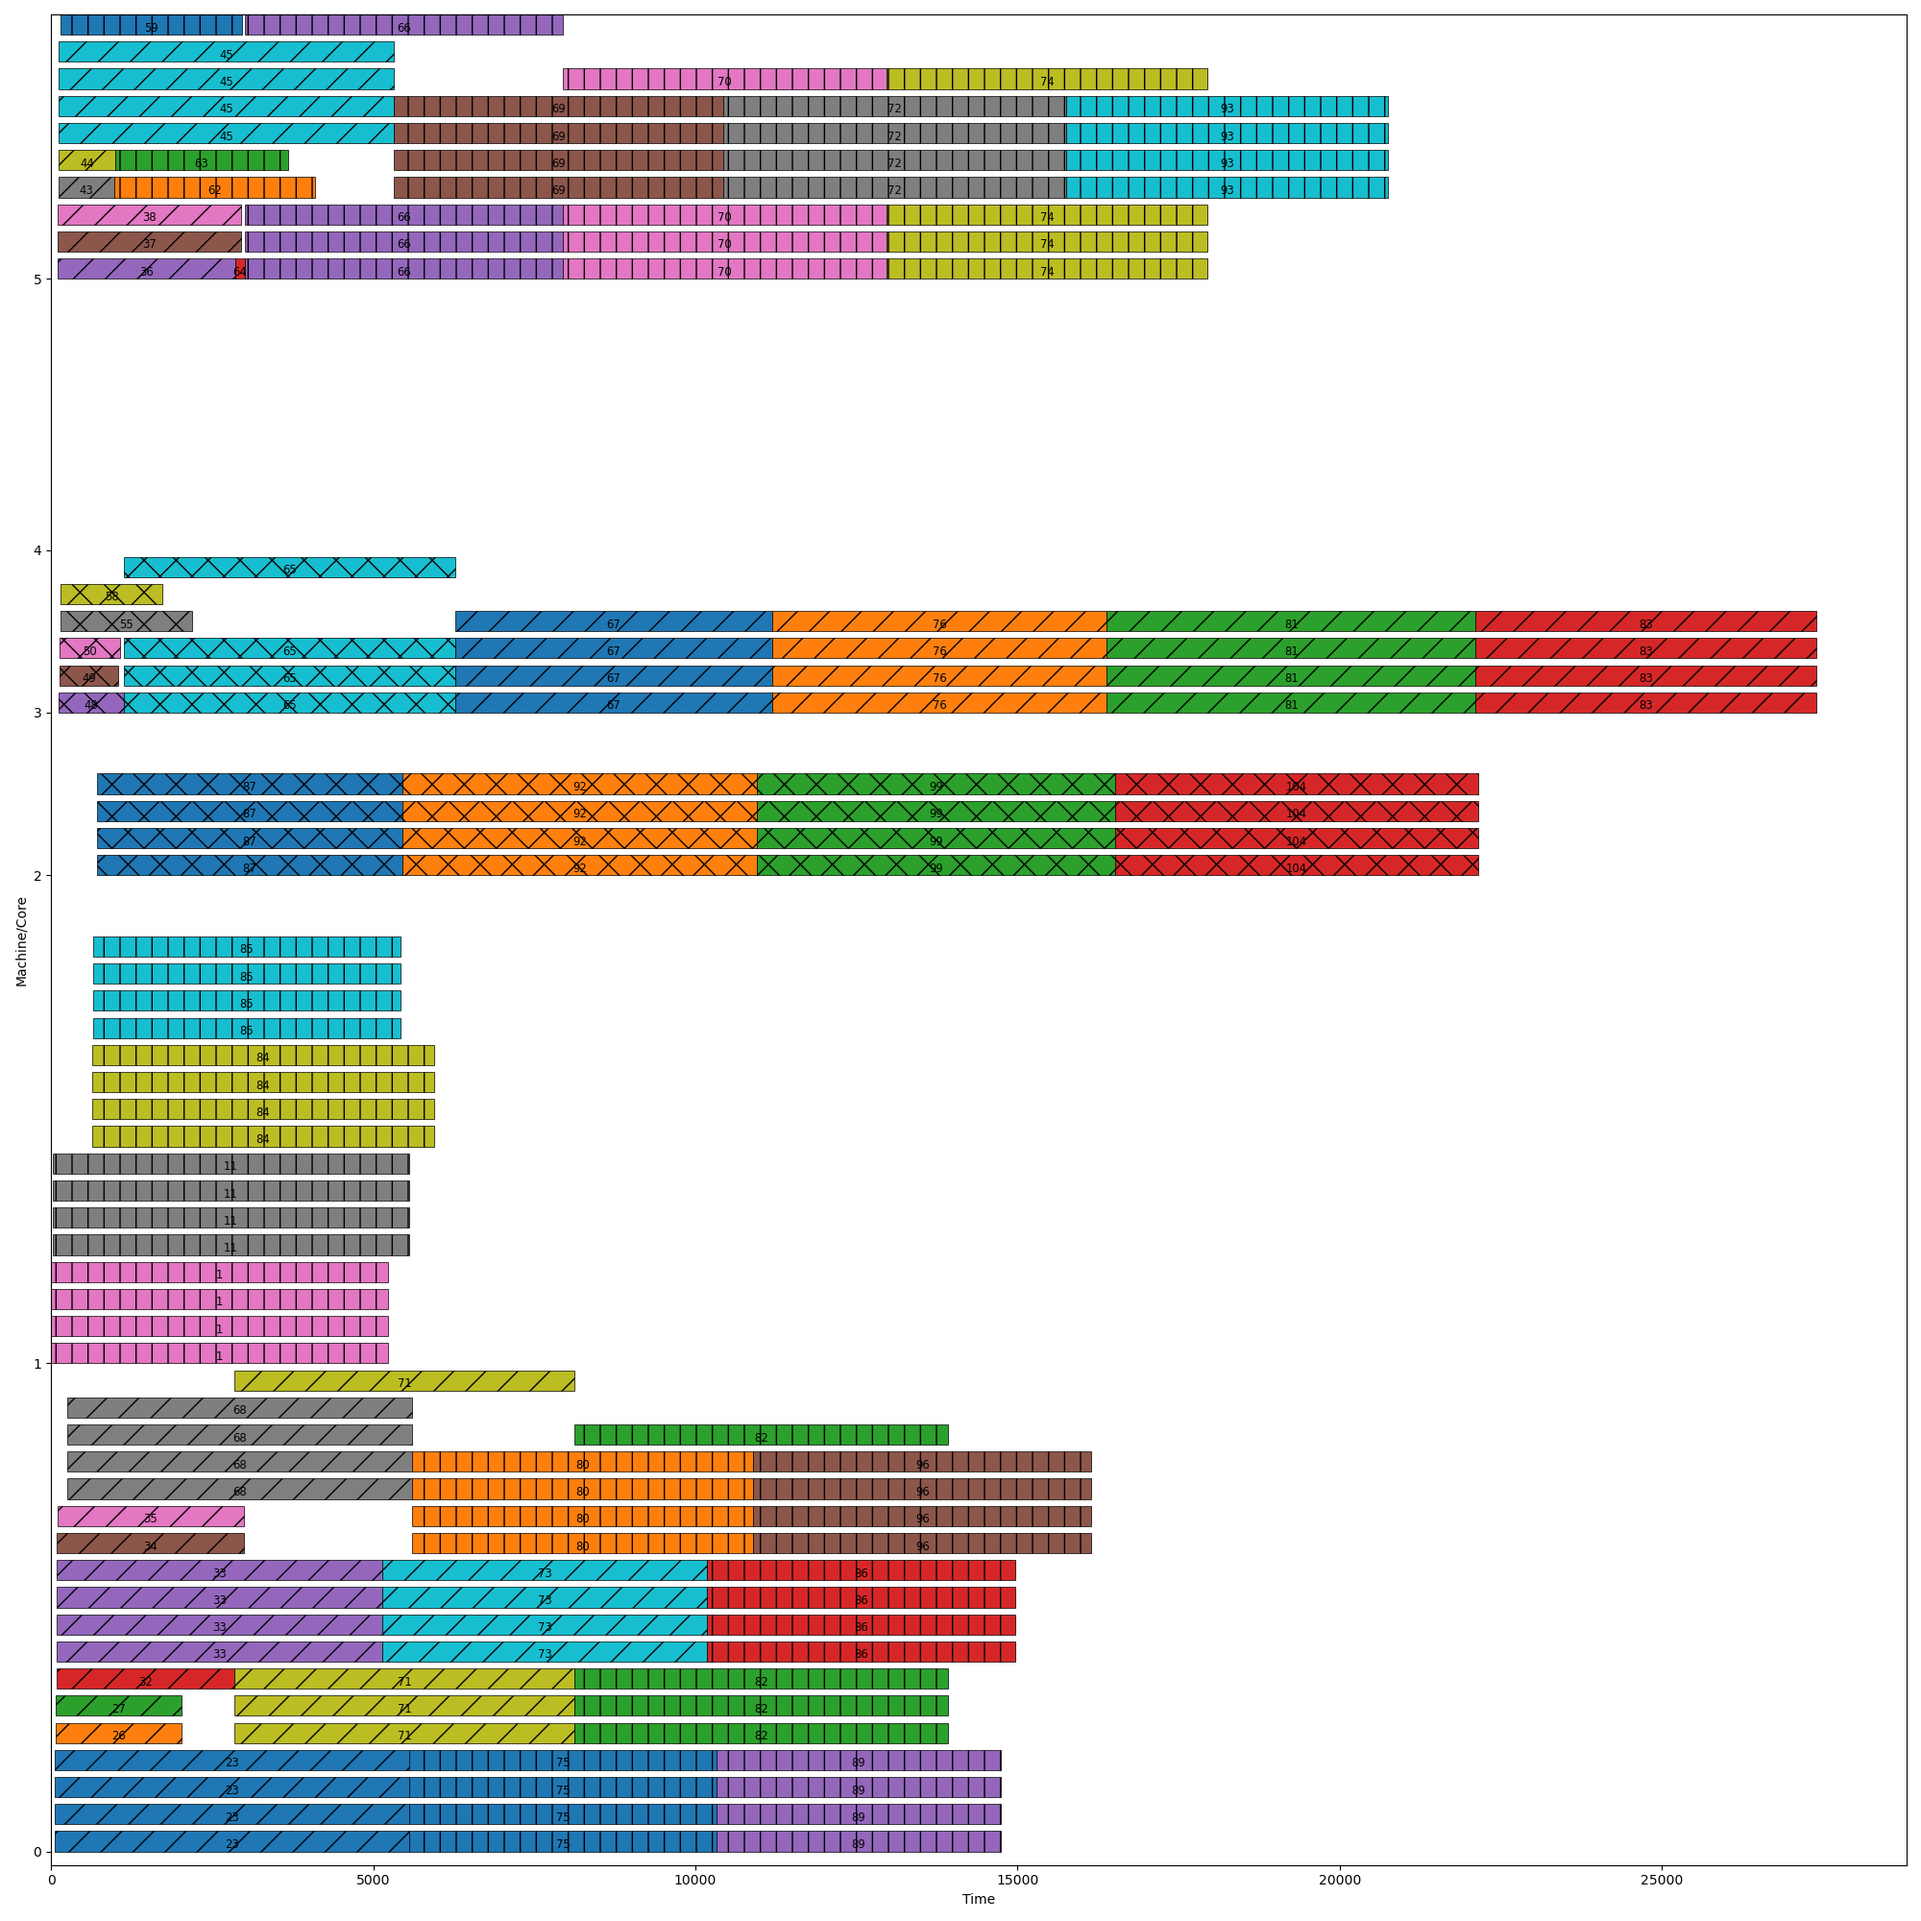
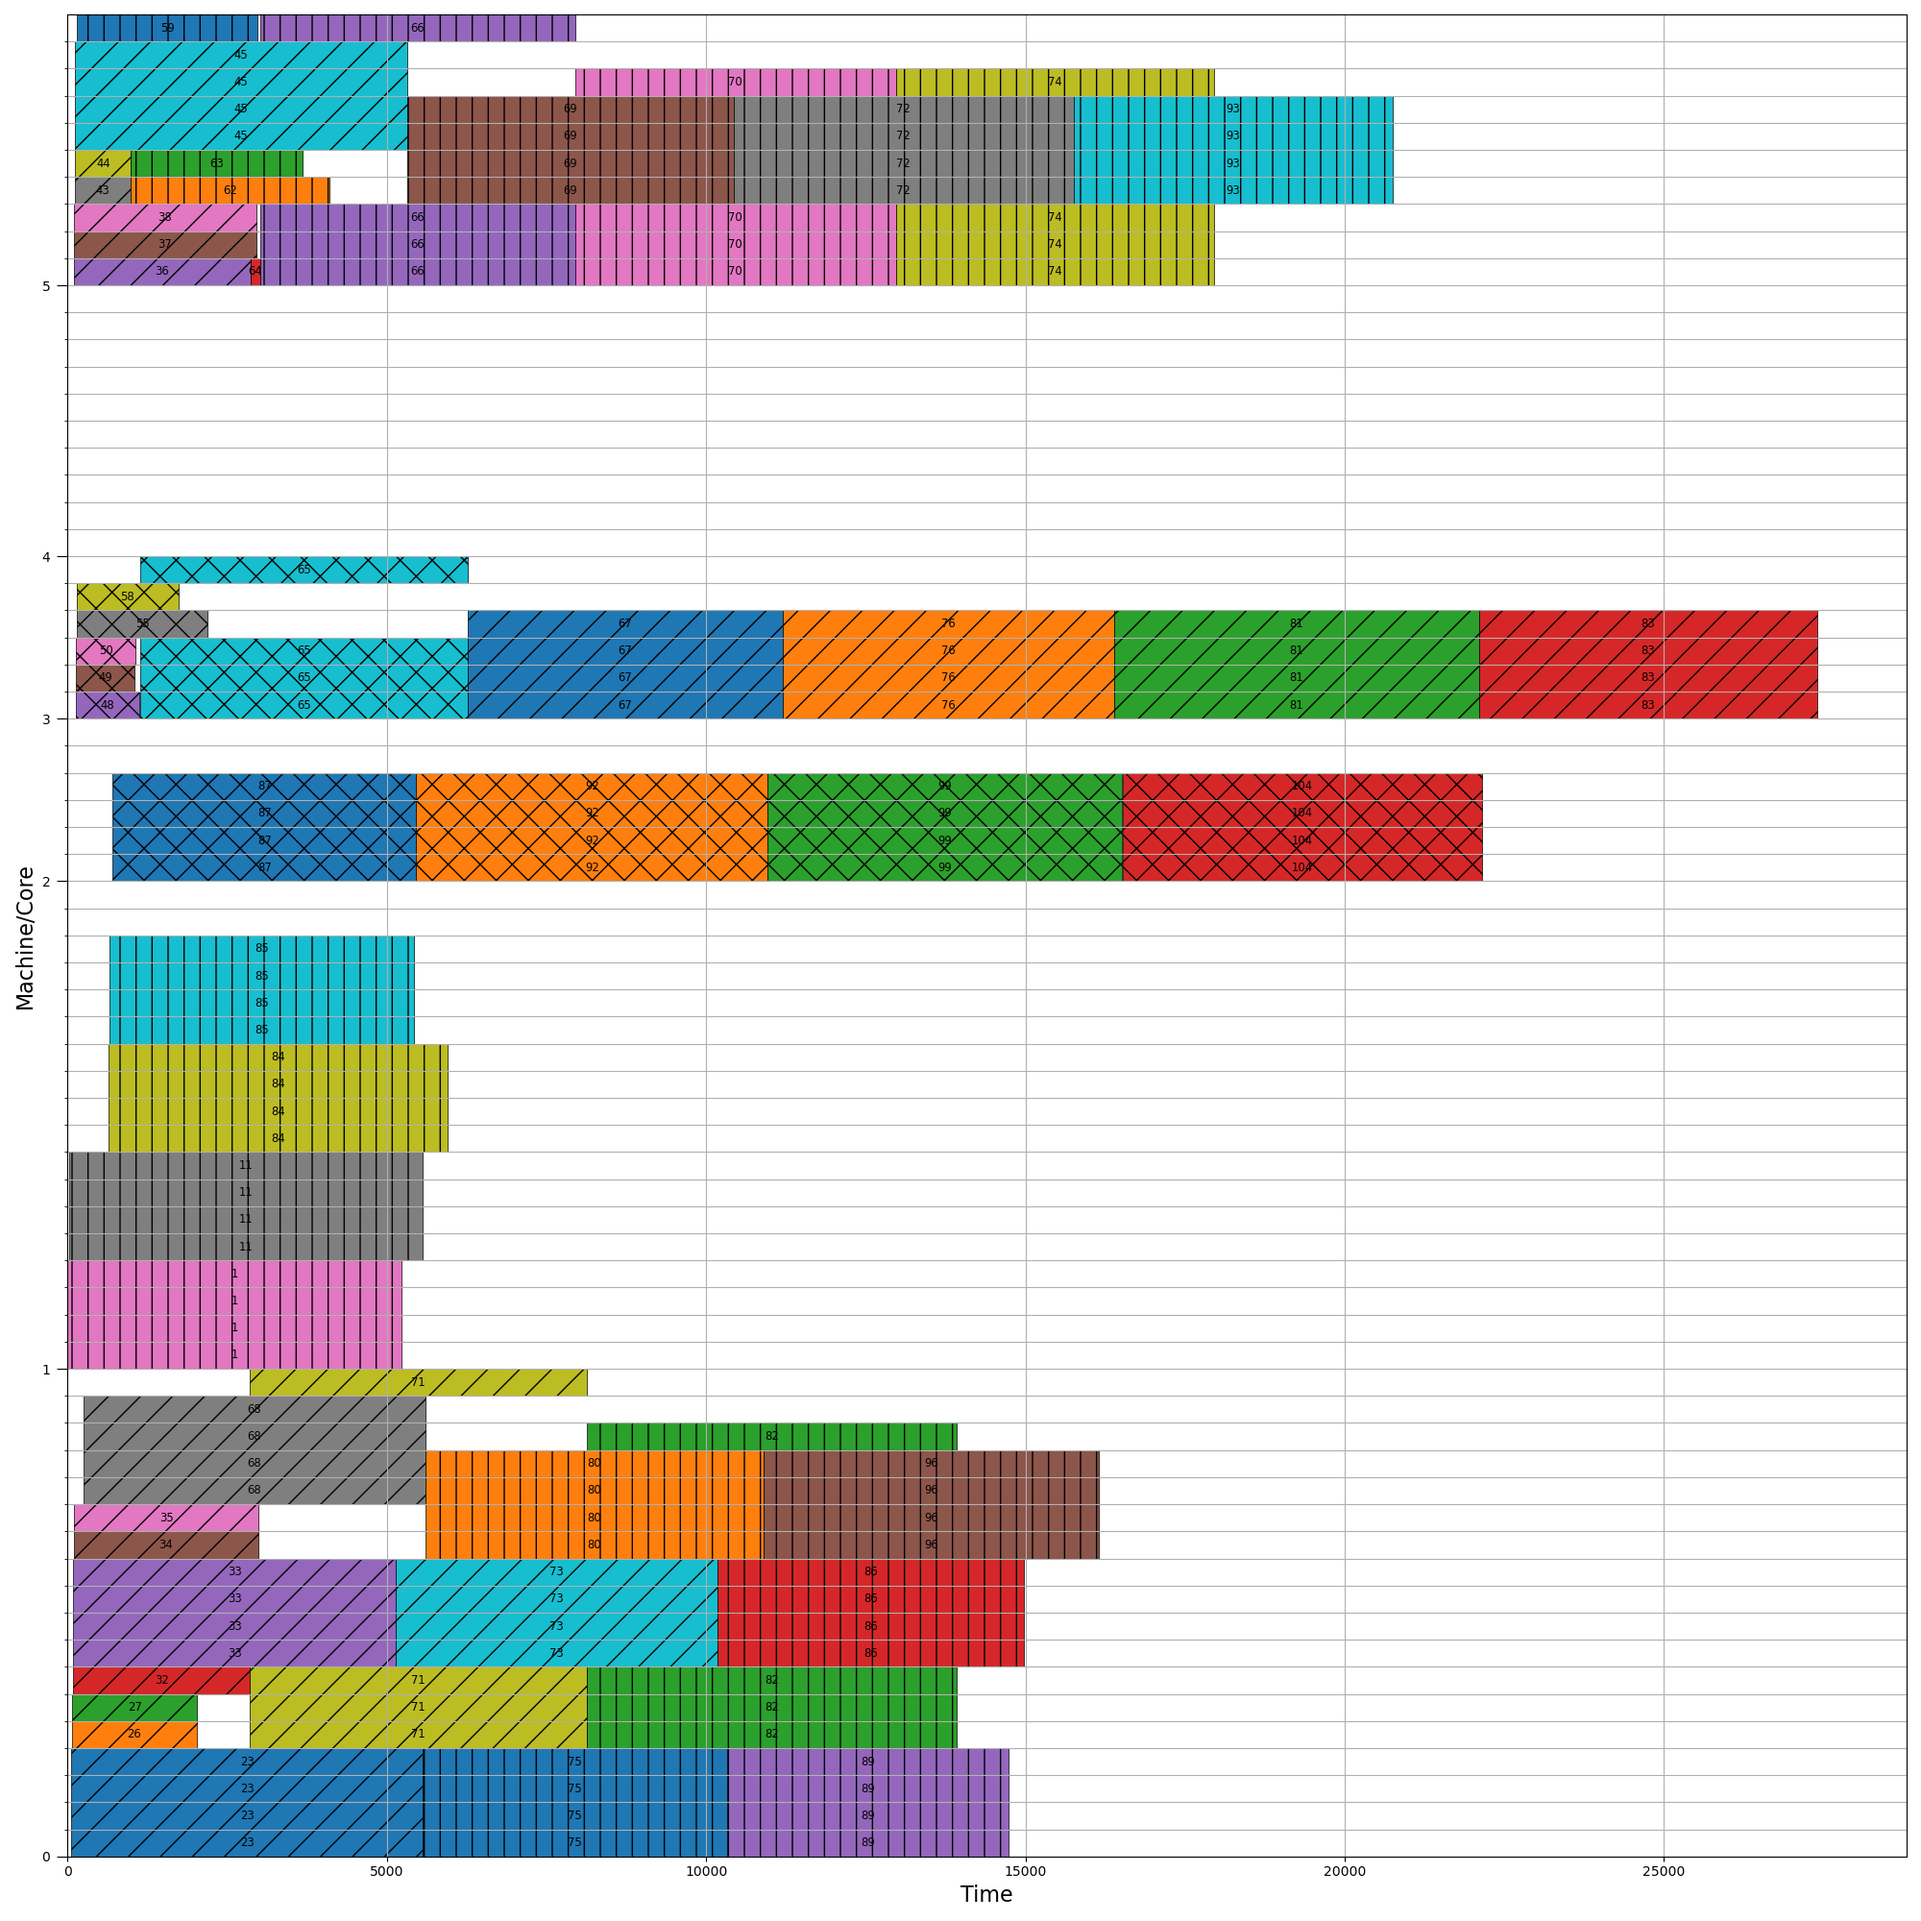
Modifications in the scheduling

diff --git a/gantt.py b/gantt.py
@@ -5,8 +5,8 @@ import math
 import matplotlib.pyplot as plt
 import matplotlib.patches as patches
 from typing import List
-import matplotlib.colors as mcolors
 from argparse import ArgumentParser
+import matplotlib.ticker as ticker
 
 class Jobs:
     def __init__(self, id, startTime, finishTime, machine, nbcores):
@@ -29,8 +29,7 @@ class Scheduling:
         self.min_date = 0
         self.max_date = math.inf
         self.jobs : List[Jobs] = []
-        self.y_increment = 2
-        self.y_height = 1.5
+        self.y_height = 2
         self.y_positions = {}
 
     def intersection(self, lst1, lst2):
@@ -50,7 +49,7 @@ class Scheduling:
                 self.y_positions[machine_key] = {}
                 for core in range(0, machine_value["cores"]):
                     self.y_positions[machine_key][core] = y_pos
-                    y_pos += self.y_increment
+                    y_pos += self.y_height
                 for x in range(0, self.max_date - self.min_date + 1):
                     self.scheduling[x][int(machine_key)] = [c for c in range(0, machine_value["cores"])]
 
@@ -75,13 +74,17 @@ class Scheduling:
         fig, ax = plt.subplots(figsize=(20, 20))
         y_labels = []
         y_positions = []
+        y_cores_position = []
+        y_labels_position = []
         y_max = 0
         for y_machine, y_cores in self.y_positions.items():
             for label, pos in y_cores.items():
                 if label == 0:
                     y_labels.append(y_machine)
                     y_positions.append(pos)
+                y_cores_position.append(pos)
                 y_max = pos
+            y_labels_position.append(y_max - (len(y_cores) / 2))
         colors = ["tab:blue", 'tab:orange', 'tab:green', 'tab:red', 'tab:purple', "tab:brown", "tab:pink", "tab:gray", "tab:olive", "tab:cyan"]
         h = list("/|X")
         colorIndex = 0
@@ -107,7 +110,7 @@ class Scheduling:
                 ax.add_artist(rect)
                 rect.axes.annotate(
                     str(job.id),
-                    (x0+(duration/2), self.y_positions[str(job.machine)][core]+0.5),
+                    (x0+(duration/2), self.y_positions[str(job.machine)][core]+1),
                     color='black',
                     fontsize='small',
                     ha='center',
@@ -115,13 +118,17 @@ class Scheduling:
                 )                
             colorIndex += 1
         y_max += self.y_height
-        ax.set_xlabel('Time')
-        ax.set_ylabel('Machine/Core')
+        ax.set_xlabel('Time', size=16)
+        ax.set_ylabel('Machine/Core', size=16)
         ax.yaxis.set_ticks(y_positions, y_labels)
         ax.set_xlim(self.min_date, self.max_date)
-        ax.set_ylim(-1, y_max)
+        ax.set_ylim(0, y_max)
+        ax.set_yticks(y_cores_position, minor=True)
+        ax.tick_params(axis='y', which="major", length=8, pad=5)
+        ax.grid(visible=True, which='both')
 
-        plt.tight_layout()
+        fig.tight_layout()
+
         if savefig:
             plt.savefig(savefig)
             plt.close()
